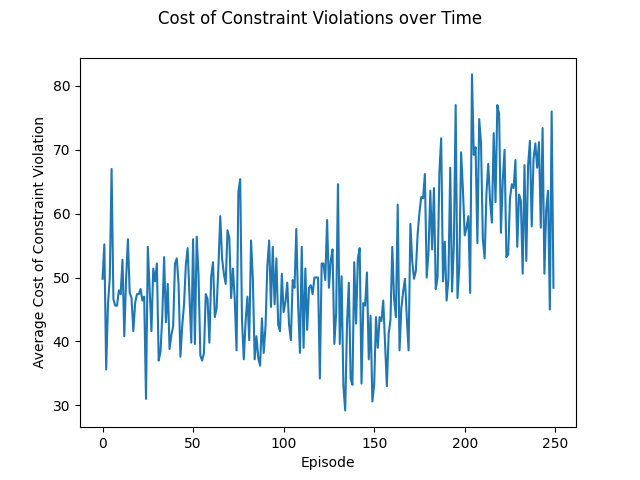
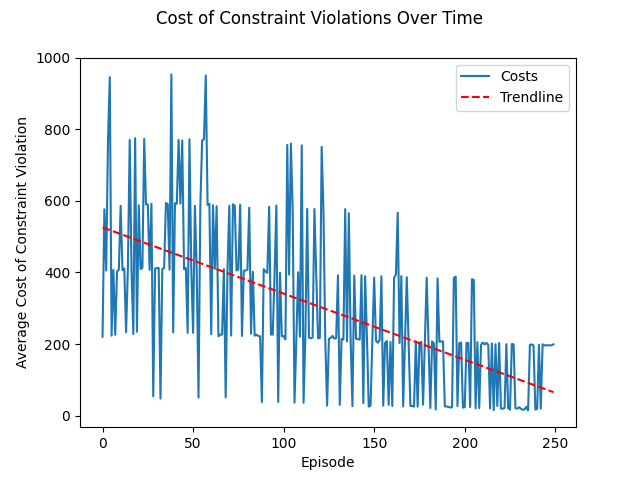
Added Constraint Satisfaction Plotting

diff --git a/train-and-eval.py b/train-and-eval.py
@@ -17,7 +17,8 @@ torch.set_num_threads(12)
 torch.set_num_interop_threads(12)
 # Hyperparameters
 N_EPISODES = 250
-BATCH_SIZE = 128
+# default timesteps in an episode
+BATCH_SIZE = 1000
 MEMORY_SIZE = 1000000
 GAMMA = 0.99
 EPS_START = 0.9
@@ -25,7 +26,7 @@ EPS_END = 0.05
 EPS_DECAY = 100
 WEIGHT_DECAY = 0.005
 TAU = 1e-3
-Q_LR = 1e-5
+Q_LR = 3e-5
 POLICY_LR = 3e-4
 NUM_TRAJ = 5
 
@@ -65,36 +66,63 @@ for i_episode in (pbar := tqdm(range(N_EPISODES))):
     constraint_violation_costs.append(avg_costs)
     constraint_violation_counts.append(avg_violations)
 
+# Plot 1: Training Loss Over Time
 print("Training completed.")
 fig = plt.figure()
-ax  = fig.subplots(1)
-ax.plot(losses)
+ax = fig.subplots(1)
+ax.plot(losses, label="Losses")
+
+# Add trendline
+x = np.arange(len(losses))
+trendline = np.poly1d(np.polyfit(x, losses, 1))  # Linear trendline (degree 1)
+ax.plot(x, trendline(x), linestyle="--", color="red", label="Trendline")
+
 ax.set_xlabel("Episode")
 ax.set_ylabel("Loss")
-fig.suptitle("Training loss over time")
-if os.path.isdir('figures') is False:
-            os.mkdir('figures')
-fig.savefig(f"figures/last_fig_long.png")
+fig.suptitle("Training Loss Over Time")
+ax.legend()
 
+if os.path.isdir('figures') is False:
+    os.mkdir('figures')
+fig.savefig("figures/last_fig_long.png")
+
+# Plot 2: Constraint Violations Over Time
 fig = plt.figure()
-ax  = fig.subplots(1)
-ax.plot(constraint_violation_counts)
+ax = fig.subplots(1)
+ax.plot(constraint_violation_counts, label="Violations")
+
+# Add trendline
+x = np.arange(len(constraint_violation_counts))
+trendline = np.poly1d(np.polyfit(x, constraint_violation_counts, 1))
+ax.plot(x, trendline(x), linestyle="--", color="red", label="Trendline")
+
 ax.set_xlabel("Episode")
 ax.set_ylabel("Number of Constraint Violations")
-fig.suptitle("Constraint Violations Over ime")
-if os.path.isdir('figures') is False:
-            os.mkdir('figures')
-fig.savefig(f"figures/constraints_violated.png")
+fig.suptitle("Constraint Violations Over Time")
+ax.legend()
 
+if os.path.isdir('figures') is False:
+    os.mkdir('figures')
+fig.savefig("figures/constraints_violated.png")
+
+# Plot 3: Cost of Constraint Violations Over Time
 fig = plt.figure()
-ax  = fig.subplots(1)
-ax.plot(constraint_violation_costs)
+ax = fig.subplots(1)
+ax.plot(constraint_violation_costs, label="Costs")
+
+# Add trendline
+x = np.arange(len(constraint_violation_costs))
+trendline = np.poly1d(np.polyfit(x, constraint_violation_costs, 1))
+ax.plot(x, trendline(x), linestyle="--", color="red", label="Trendline")
+
 ax.set_xlabel("Episode")
 ax.set_ylabel("Average Cost of Constraint Violation")
-fig.suptitle("Cost of Constraint Violations over Time")
+fig.suptitle("Cost of Constraint Violations Over Time")
+ax.legend()
+
 if os.path.isdir('figures') is False:
-            os.mkdir('figures')
-fig.savefig(f"figures/constraints_cost.png")
+    os.mkdir('figures')
+fig.savefig("figures/constraints_cost.png")
 
 
 print("Saving model...")

diff --git a/sddpg.py b/sddpg.py
@@ -162,7 +162,6 @@ class SDDPG:
             rewards = t[2] 
             next_states = t[3] 
             dones= t[4].squeeze()
-            constraints_cost = 0
             constraints_violations = 0
 
             next_actions = self.actor_target(next_states)
@@ -177,9 +176,9 @@ class SDDPG:
             safe_q_values = self.const_critic_local(states, actions)
             q_values = self.critic_local(states, actions)
 
-            constraints_cost += self.d(states).sum().item()
+            constraints_cost = self.d(states).sum().item()
             if constraints_cost > self.d0:
-                constraints_violations += 1
+                constraints_violations = math.floor(constraints_cost / self.d0)
 
             filtered_q_values = torch.cat([q_values[i] for i in range(len(q_values)) if not dones[i-1].item()], dim=0)
             filtered_safe_q_values = torch.cat([safe_q_values[i] for i in range(len(safe_q_values)) if not dones[i-1].item()], dim=0)
